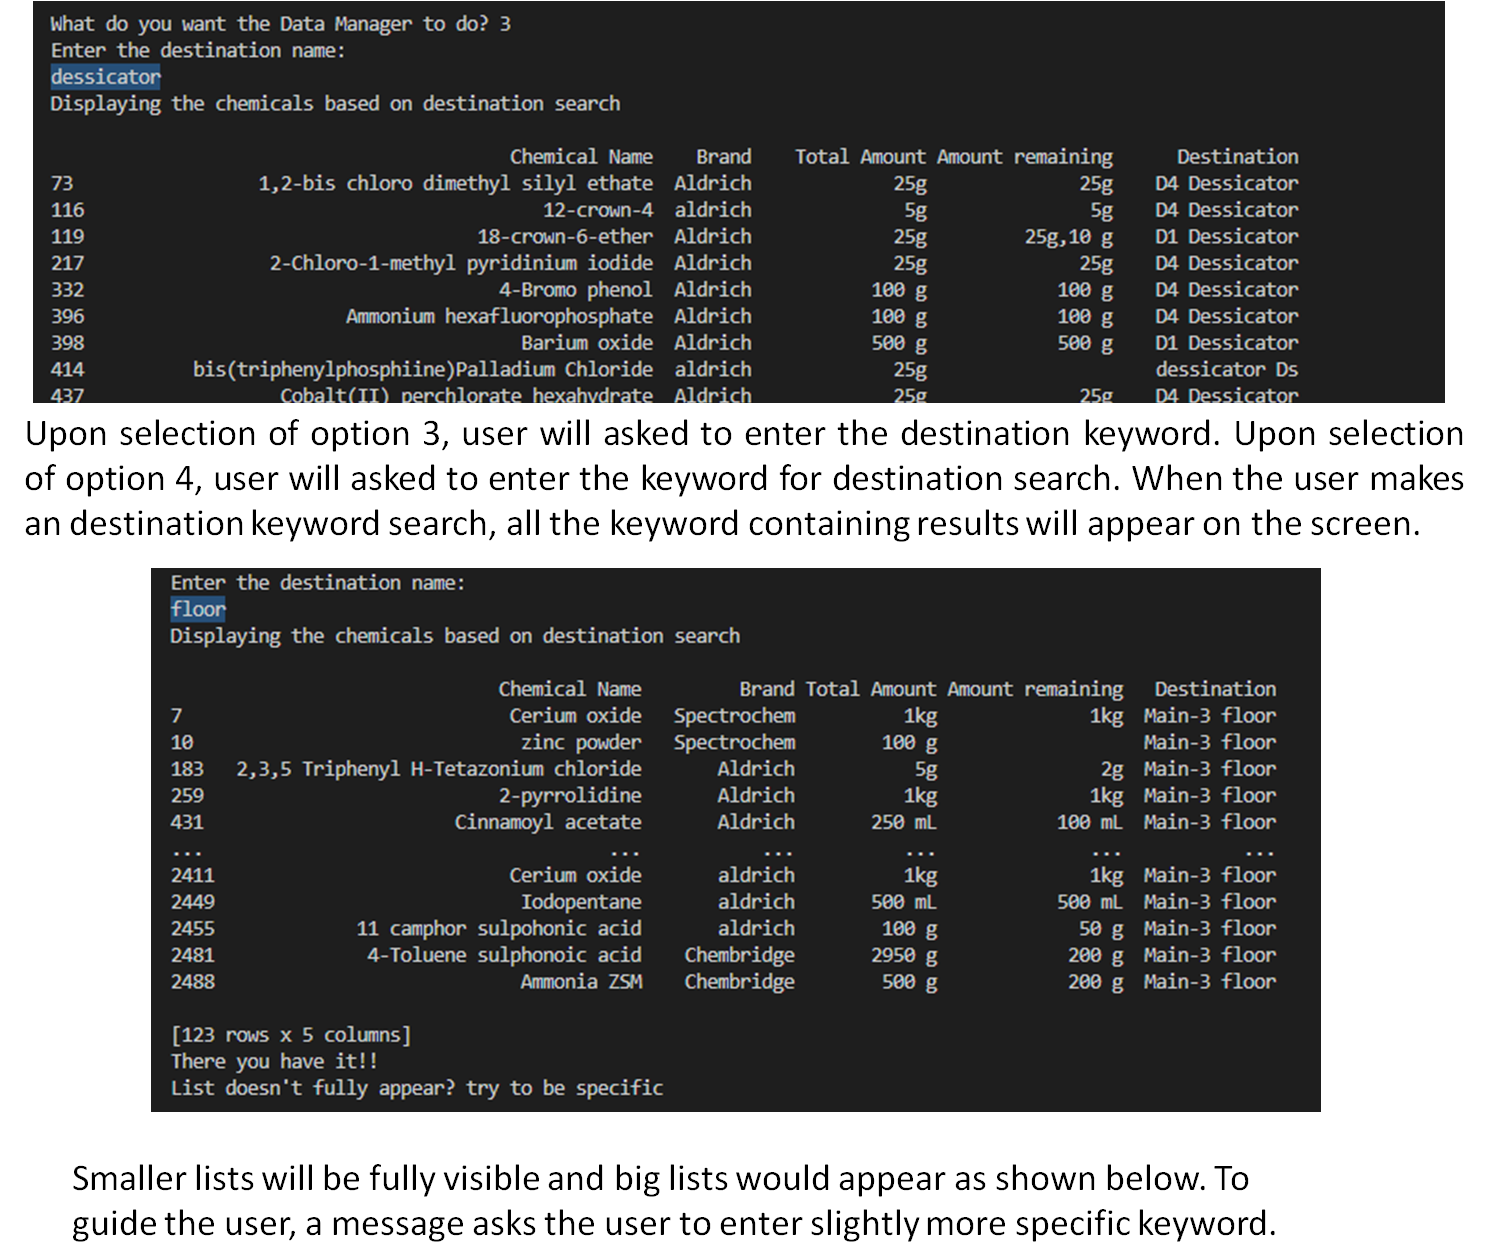
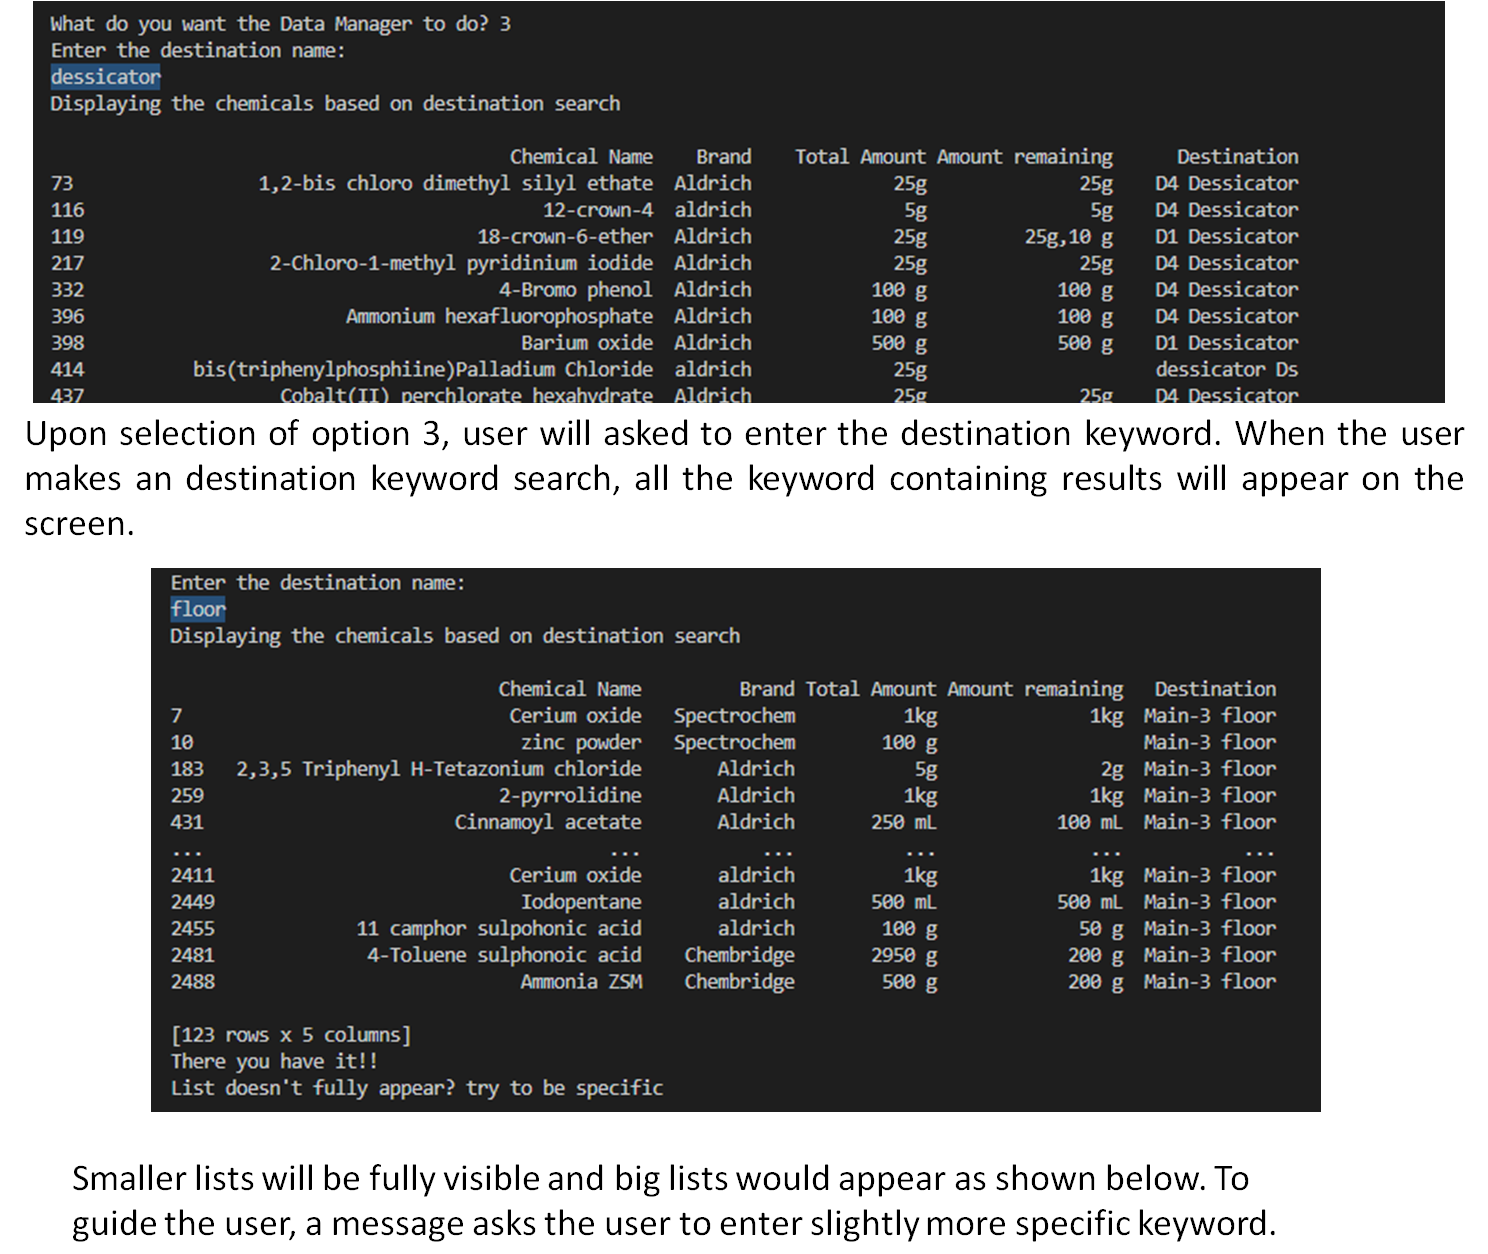
AdAdd  details to features section ot README file

Changed region(s): [[0.0, 0.3421, 0.9892, 0.4354]]

diff --git a/README.md b/README.md
@@ -10,7 +10,8 @@ myLab Data Manager allows the user to sort and organise data, so that the user c
     - <a href= "#structure"> Data Manager Structure</a>
     -  <a href= "#flowchart">Flowchart</a>
 -  <a href= "#features">Features</a>
-    -  <a href= "#landing">Landing Section</a>
+    -  <a href= "#insight">Inventory insights</a>
+    -  <a href= "#update">Updating Google Sheets</a>
 - <a href= "#technologies">Technologies</a>
 - <a href= "#languages">Languages Used</a>
 - <a href= "#libraries">Libraries Used</a>
@@ -46,7 +47,57 @@ myLab Data Manager allows the user to sort and organise data, so that the user c
 
 <h2 id = "features"> FEATURES </h2>
 
-- <h3 id= "landing"> Landing Section </h3>
+- <h3 id= "insight"> Inventory insights </h3>
+![User greetings and first look](images/user_greeting.png)
+
+Upon selection of option 1 or when the user makes an input 1, the whole chem_inventory worksheet gets displayed on the screen. Next options will allow the user to narrow down the search further.
+After the whole chem_inventory worksheet is displayed, the user options for selection 1-9 appears again. 
+User will be asked this question  after each selection is made up until the user selects the option 10.
+
+![Option 1 selection](images/selection_1.png)
+
+Upon option 2 selection, user will be asked to make an entry of chemical name they wish to find.
+When the user makes an entry, all the input containing results will appear on the screen. Following which, the user will be asked a question, if the search was helpful.  
+If the user selects n (no), User will be asked to enters more specific keyword. Upon input, chemical list containing exactly the typed in keyword will appear on the screen. And a message, “Great! You got it now!!’
+If the user selects y (yes),  “Awesome!”will be printed.
+If no entry, “Please enter y/n!” will be printed.
+
+![Option 2 selection](images/selection_2.png)
+
+Upon selection of option 3, user will asked to enter the destination keyword. When the user makes an destination keyword search, all the keyword containing results will appear on the screen. 
+Smaller lists will be fully visible and big lists would appear as shown below. To guide the user, a message asks the user to enter slightly more specific keyword.
+
+![Option 3 selection](images/selection_3.png)
+
+Upon selection of option 4, user will asked to enter the exact quantity input to search. When the user enters the value, all the input results will appear on the screen, which will be fully matching.
+If user doesn’t enter the exact quantity for the search, empty index will be returned.
+
+Upon selection of option 5, user will asked to enter the brand name for the search. When the user enters the keyword, all the keyword containing results will appear on the screen. 
+![Option 4 and 5 selection](images/selection_4n5.png)
+
+Upon selection of option 10, user will be given an exit message “See you later then!!”
+![Option 10 selection](images/exit.png)
+
+- <h3 id= "update"> Updating Google Sheets </h3>
+
+Retrieved data from chemical inventory list printed at the terminal, which gets appended in the assess worksheet of myLab_data spreadsheet.
+![Updating assess worksheet](images/selection_6.png)
+
+
+Data is retrieved based on the full bottles or matching values of Amount remaining column and Total Amount column. 
+Retrieved data from chemical inventory gets appended in the storage worksheet.  
+![Updating storage worksheet](images/selection_7.png)
+
+Retrieved data from chemical inventory list printed at the terminal, which gets appended in the deleted_items worksheet of myLab_data spreadsheet.
+Data is retrieved based on the empty bottles from the Amount remaining column.
+Retrieved data from chemical inventory gets appended in the deleted_items worksheet.
+![Updating deleted_items worksheet](images/selection_8.png)
+
+Upon selection of option 9, user will asked to type in the data. The values to be entered will be displayed. Only upon adding 5 values, will the manual_entry table be updated. 
+Upon selection of option 9, user will asked to add the data for manual entry. 
+If the user enters more than 5 values, “invalid input” will be displayed and user ill be asked to enter values again.
+If the user enters valid input, then the manual_entry worksheet will get updated and a message will appear that it has been updated successfully.
+![Updating manual_entry worksheet](images/selection_9.png)
     
 <h2 id="technologies">TECHNOLOGIES</h2>
 
